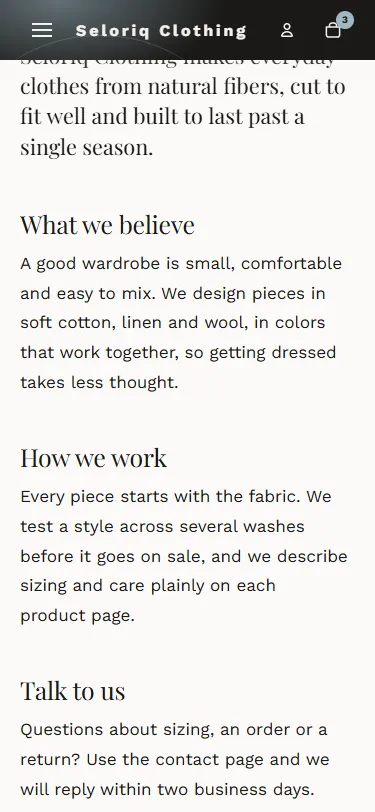
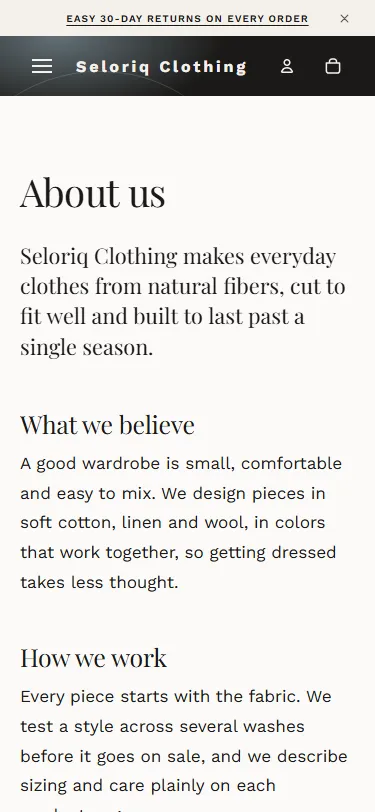
Page guide: two phone stills retaken after the reveal fix (headings now show on the first screen)

Changed region(s): [[0.0, 0.0, 1.0, 0.7697], [0.0587, 0.8005, 0.9387, 0.9852], [0.8213, 0.8313, 0.88, 0.8621]]

diff --git a/content-pages.md b/content-pages.md
@@ -1,6 +1,6 @@
 ---
 title: Content pages
-updated: 2026-11-19
+updated: 2026-11-26
 ---
 
 # Content pages
